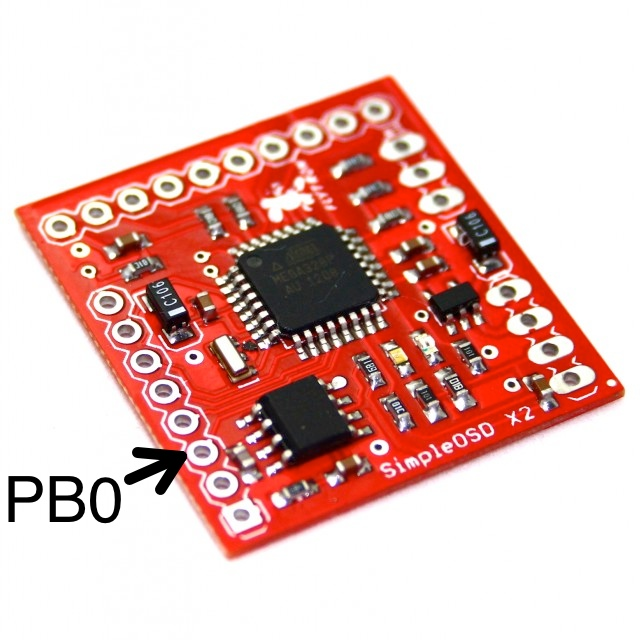
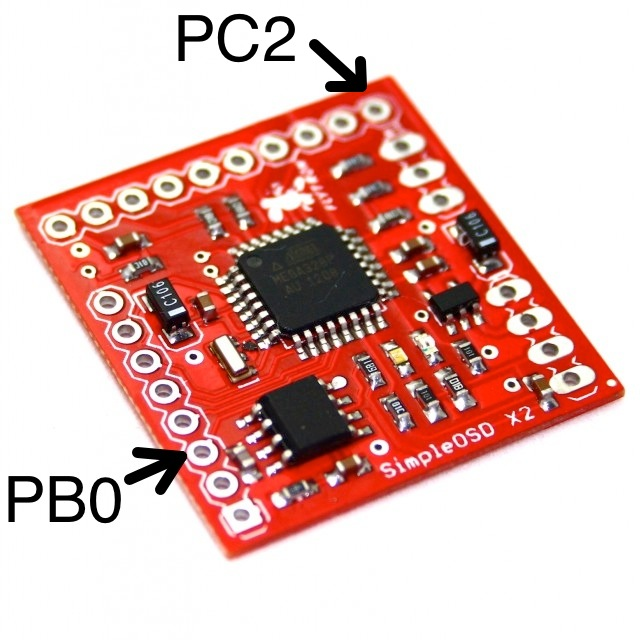
updated readme and picture to show analog rssi pin

Changed region(s): [[0.2812, 0.0, 0.5938, 0.1562]]

diff --git a/DIY_OSD_v0_18/output.cpp b/DIY_OSD_v0_18/output.cpp
@@ -59,7 +59,7 @@ extern unsigned char speedkmw[5];
 extern unsigned char altitude2[10];
 extern unsigned char altituder[10];
 
-
+#if (digital_rssi==1)
 // RSSI PWM Input
 typedef enum { falling, rising } pwm_state_t;
 
@@ -107,16 +107,15 @@ ISR(TIMER1_CAPT_vect) {
 		duration = falling_ticks - rising_ticks;
 	}
 }
+#endif
 
 // frame output
-
 void detectframe() {
   line=0;
 }
 
-void detectline() {
-	little_delay(); // This is used to adjust to timing when using SimpleOSD instead of Arduino
-        
+void detectline() {     
+	little_delay(); // This is used to adjust to timing when using SimpleOSD instead of Arduino   
 		////////////////////////////////////////////
 		// Flight timer and mah/km
 		////////////////////////////////////////////
@@ -167,9 +166,9 @@ void detectline() {
 					mahkm_buf[2]=(mahkmr[2])<<5;
 					mahkm_buf[3]=(mahkmr[3])<<5;
 				}
-				/*if (rssi_negative==1 && show_rssi==1) {
-					mahkm_buf[0]=13<<5;
-				}*/
+				//if (rssi_negative==1 && show_rssi==1) {
+				//	mahkm_buf[0]=13<<5;
+				//}
 			}
 			//SPDR = 0b11111110;
 		} else {
@@ -1681,7 +1680,6 @@ void detectline() {
 				// Adding the high and low register;
 				rssi_reading=ADCtemp+(ADCtemp2<<8);
 				//rssi_reading=((rssi_reading-rssi_min)*rssi_cal);
-				
 				#if (show_raw_rssi == 0)
 					rssi_reading = 100-((int16_t)((rssi_reading-48)/(int16_t)2));
 					rssi_negative=0;

diff --git a/DIY_OSD_v0_18/config.h b/DIY_OSD_v0_18/config.h
@@ -233,6 +233,8 @@
 	#if (dim_on == 1)
 		// This is used for dimming. can be changed to another pin if you want. 
 		//define SimpleOSD X2's dim pin B1
+		//#define DimOn() DDRB |= 0b00000001
+		//#define DimOff() DDRB &= 0b11111110
 		#define DimOn() DDRB |= 0b00000010
 		#define DimOff() DDRB &= 0b11111101
 	#else

diff --git a/README.md b/README.md
@@ -7,22 +7,24 @@ Includes support for SimpleOSD X2 from Flytron http://www.rcgroups.com/forums/sh
 
 How-to
 ------
-**Warning** The changes have been not tested yet so use firmware at your own risk.
+**Warning** The changes have been not tested a lot so use firmware at your own risk.
 
 Currently the config is set to display the signal quality from an ezuhf rx. So setup your ezuhf rx to output signal quality on a pin and connect the signal wire to the PB0 Pin (depending on your setup you might need to connect the ground of the rx to the ground of the osd as well but watch out for ground loops!!!) For other rx types the values in the config.h must be adjusted. 
 
-If you don't know where to connect the wire: in the repository is a [picture](https://github.com/schugabe/DIY-OSD/blob/master/pb0.jpg "pb0") with a sign where PB0 is located.
+If you don't know where to connect the wire: in the repository is a [picture](https://github.com/schugabe/DIY-OSD/blob/master/pb0.jpg "pb0") with a sign where PB0 is located. PC2 would be the pin for analog rssi readings.
 
 Update the OSD Firmware:
-* Download the code and open DIY_OSD_v0_18.ino in the Arduino IDE (download from http://arduino.cc/en/Main/Software_ )
+* Download the code and open DIY_OSD_v0_18.ino in the Arduino editor (download from http://arduino.cc/en/Main/Software_ )
 * Select the com port of the FTDI cable in the Tools/Serial Port Menu
 * Select Arduino Pro or Pro Mini 5V,16Mhz with Atmega328 in the Tools/Board Menu as target device,
-* Connect the FTDI cable to SimpleOSD X2 
+* Connect the FTDI cable to the usb port of the computer
+* Wait for the COM port to show up and select the according device in the serial port menu
 * Press the upload button
+* Connect the FTDI cable to SimpleOSD X2. If there is a error message you have to try again. Disconnect the cable from the osd, click upload and connect again (you have to be fast but not too fast, it might take several tries)
 
 
 Change-log
 ---------
 * fixed a bug where wrong pin for config button was read on SimpleOSD X2
 * changed analog rssi input to PC2 Pin (ADC or AN2 on schematic) for SimpleOSD X2
-* added support for digital pwm rssi input on PIN PB0 for SimpleOSD X2 (is currently untested)
+* added support for digital pwm rssi input on PIN PB0 for SimpleOSD X2
